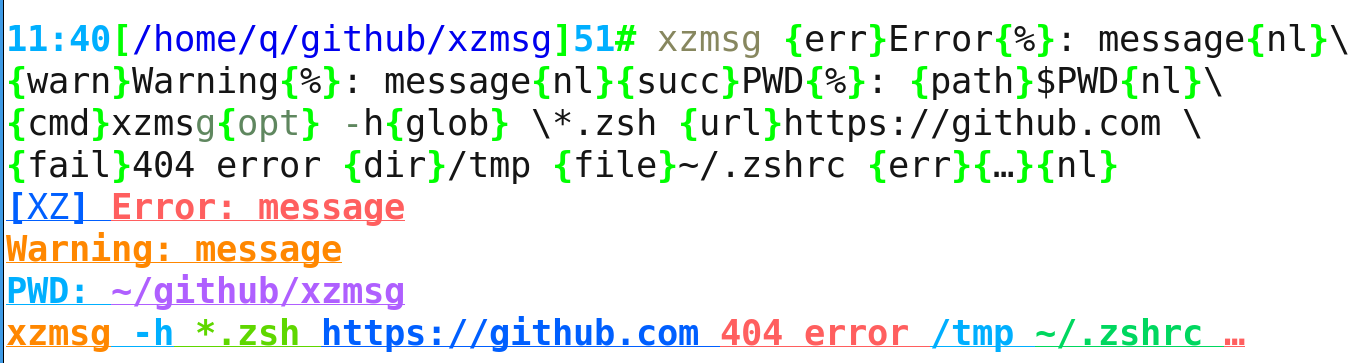
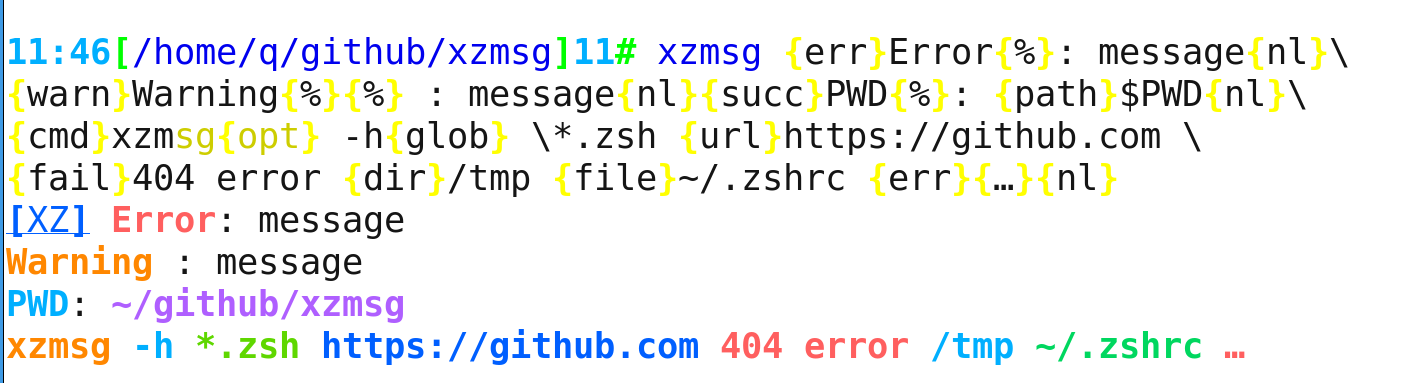
Update screenshot and `xz` alias

Changed region(s): [[0.0, 0.0606, 0.9832, 0.9697]]

diff --git a/README.md b/README.md
@@ -9,4 +9,6 @@ will work,
 `xzmsg` can be used as function on Zsh (via `autoload` builtin) or as a script
 or also on Bash as script (via `#!/usr/bin/env zsh`).
 
+## Screenshots
 
+![screenshot](https://github.com/psprint/xzmsg/blob/master/img/screenshot.png)
